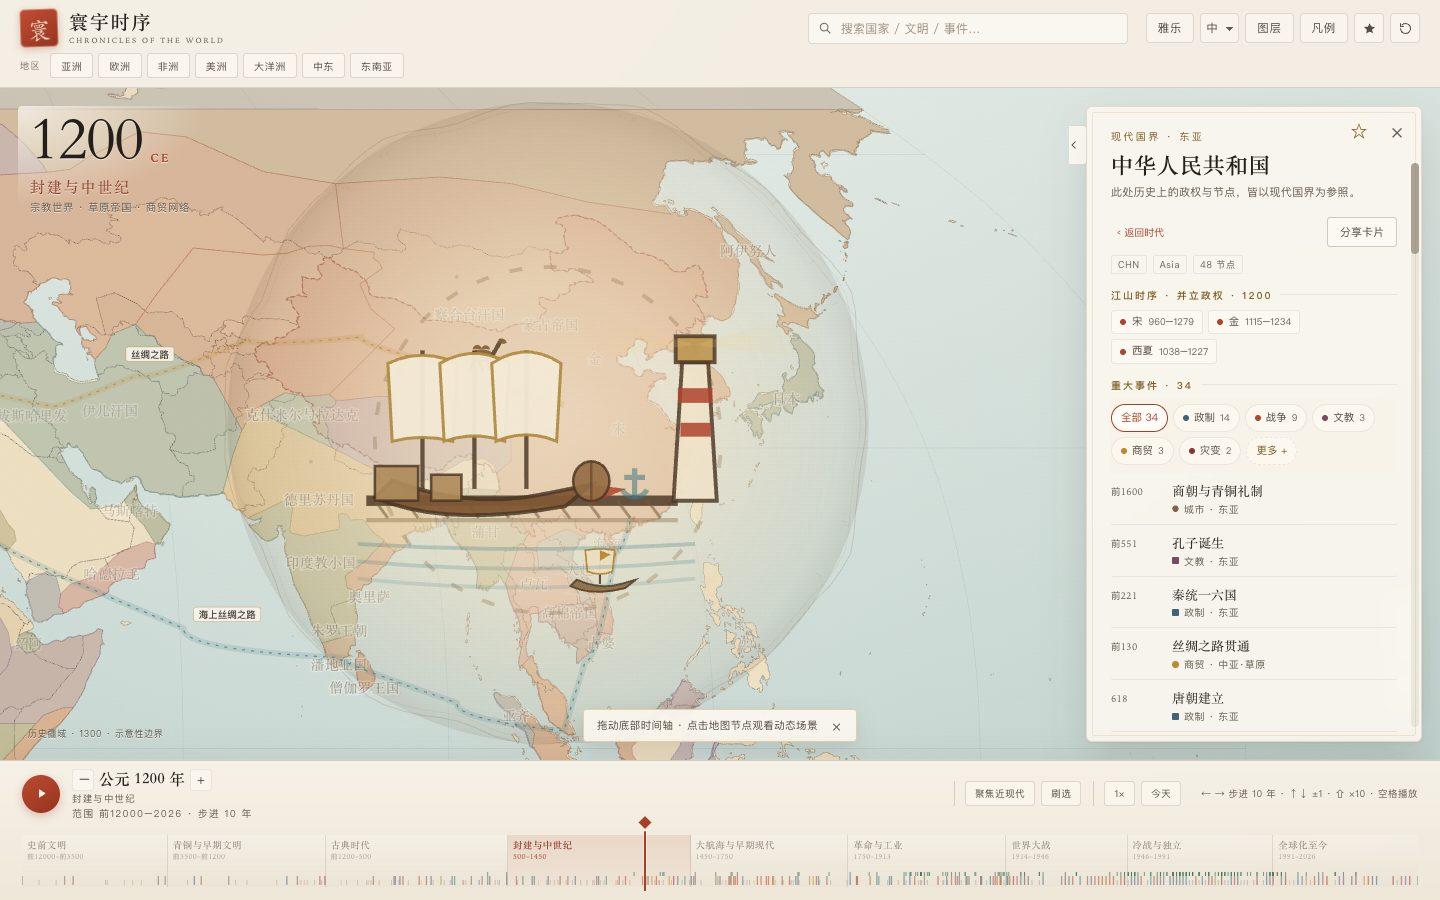
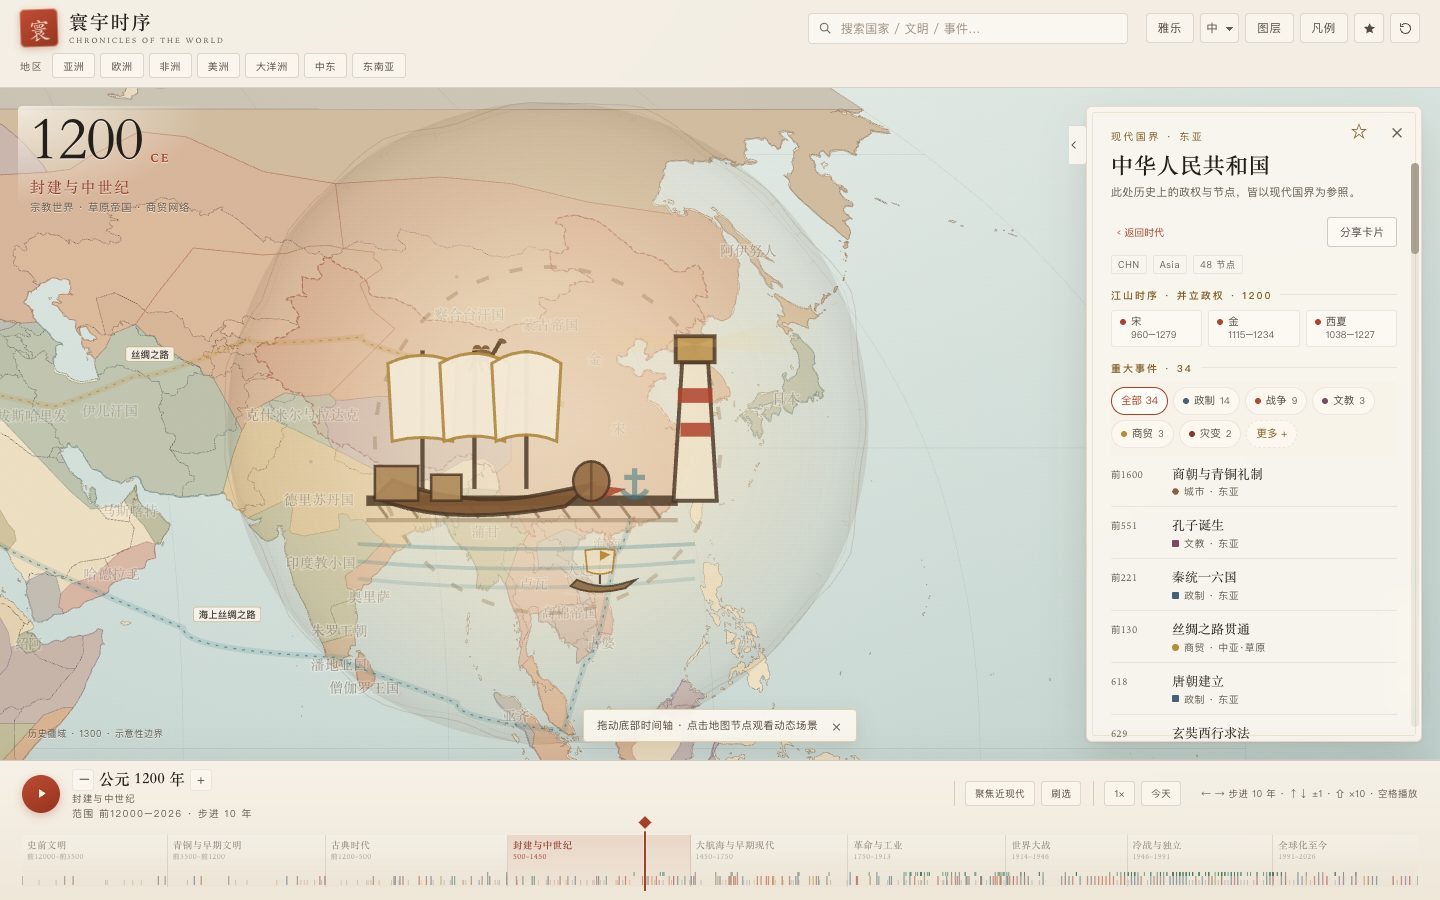
fix(ux): close the last P3 review items (D17-D20, U22)
D17 - the institutional badge is now a dot
  "Memorial Hall ... [机构]" repeated what the label already said; sources
  keep institutional-first ordering and gain a small gold dot instead.

D18 - the ash column and the surf read as masses, not strings of beads
  The eruption plume is 24 overlapping puffs, each in three alphas (halo,
  body, core), dense at the crater and thinning with height; the wave foam is
  34 fine dots instead of 16 large ones.

D19 - rival regimes align
  Three or more regimes in the China lens now sit on an equal-width grid,
  name on the first line and years on the second, so a 93px column no longer
  breaks "960-1279" across three rows.

D20 - the region label is legible
  9px at 85% opacity -> 10px in full --muted.

U22 - the disaster family covers all twelve events
  Famine (Irish, Bengal) and wave (Indian Ocean tsunami, Fukushima) join
  eruption, quake and plague. Tier B 53 -> 57; disaster diversity 0.126, all
  57 variants 0.127.

Smoke 60/60 (Tier B count updated), a11y 21/21, perf budget green, contact
sheet refreshed.

diff --git a/js/variant-scenes.js b/js/variant-scenes.js
@@ -1899,15 +1899,21 @@
     ctx.closePath();
     ctx.fillStyle = "rgba(38,30,26,0.95)"; ctx.fill();
     glow(ctx, 6, -55, 16, "rgb(240,140,70)", 0.35 + Math.sin(t * 2.4) * 0.06);
-    // ash column rising from the crater, in front of the sky
-    for (let i = 0; i < 26; i++) {
-      const q = (i / 26 + t * 0.02) % 1;
-      const bx = 6 + q * 24 + Math.sin(t * 0.8 + i) * 2.6;
-      const by = -57 - q * 20;
-      ctx.beginPath();
-      ctx.arc(bx, by, 2.4 + q * 7.0, 0, TAU);
-      ctx.fillStyle = "rgba(88,82,78," + (0.26 * (1 - q * 0.45)) + ")";
-      ctx.fill();
+    // Ash column: overlapping puffs drawn as three concentric alphas each, so
+    // it reads as one mass instead of a string of beads.
+    for (let i = 0; i < 24; i++) {
+      const q = (i / 24 + t * 0.02) % 1;
+      const bx = 6 + q * 22 + Math.sin(t * 0.7 + i * 0.7) * 1.8;
+      const by = -56 - q * 14;
+      const r = 2.2 + q * 5.4;
+      const fade = 1 - q * 0.3;
+      const layers = [[1.9, 0.10], [1.4, 0.18], [1, 0.30]];
+      for (const [k, a] of layers) {
+        ctx.beginPath();
+        ctx.arc(bx, by, r * k, 0, TAU);
+        ctx.fillStyle = "rgba(84,78,74," + (a * fade) + ")";
+        ctx.fill();
+      }
     }
     // rock streaks converging on the crater, following the cone's slope
     for (let i = 0; i < 7; i++) {
@@ -2074,9 +2080,131 @@
     }
   }
 
+  function disasterFamineStage(ctx, top, t, v) {
+    const pal = PAL[v.palette] || PAL.noon;
+    sky(ctx, top, pal, -32);
+    cloud(ctx, -12, -78, 22, "rgba(246,240,224,0.20)", 0.35);
+    // parched fields to the horizon
+    const gr = ctx.createLinearGradient(0, -30, 0, 0);
+    gr.addColorStop(0, "rgba(196,172,130,0.92)");
+    gr.addColorStop(1, "rgba(164,136,98,0.98)");
+    ctx.fillStyle = gr; ctx.fillRect(-50, -30, 100, 30);
+    // bare trees on the skyline
+    for (const [bx, s2] of [[-40, 0.9], [-26, 0.7], [30, 0.8], [42, 0.6]]) {
+      ctx.strokeStyle = "rgba(96,78,56,0.6)"; ctx.lineWidth = 0.4 * s2;
+      ctx.beginPath(); ctx.moveTo(bx, -30); ctx.lineTo(bx, -30 - 8 * s2); ctx.stroke();
+      ctx.lineWidth = 0.28 * s2;
+      ctx.beginPath(); ctx.moveTo(bx, -33 * 1 - 3 * s2); ctx.lineTo(bx - 3 * s2, -36 - 2 * s2); ctx.stroke();
+      ctx.beginPath(); ctx.moveTo(bx, -35 - 2 * s2); ctx.lineTo(bx + 3 * s2, -37 - 2 * s2); ctx.stroke();
+    }
+    // cracked earth
+    ctx.strokeStyle = "rgba(108,86,60,0.45)"; ctx.lineWidth = 0.3;
+    for (let i = 0; i < 9; i++) {
+      const x = -46 + i * 10.5;
+      ctx.beginPath();
+      ctx.moveTo(x, 0); ctx.lineTo(x + 3, -6); ctx.lineTo(x - 1, -12); ctx.lineTo(x + 2.4, -18);
+      ctx.stroke();
+    }
+    for (let i = 0; i < 5; i++) {
+      const y = -4 - i * 4.4;
+      ctx.beginPath(); ctx.moveTo(-50, y); ctx.lineTo(-18, y - 1.4); ctx.lineTo(14, y + 0.8); ctx.lineTo(50, y - 0.6); ctx.stroke();
+    }
+    // dry stalks in the near field
+    for (let i = 0; i < 16; i++) {
+      const x = -48 + i * 6.4, y = -2 - (i % 3) * 1.4;
+      ctx.strokeStyle = "rgba(150,124,82,0.8)"; ctx.lineWidth = 0.22;
+      ctx.beginPath(); ctx.moveTo(x, y); ctx.lineTo(x + Math.sin(i) * 1.2, y - 3.2); ctx.stroke();
+    }
+    // empty granary, right
+    ctx.fillStyle = "rgba(178,154,120,0.97)";
+    ctx.fillRect(26, -26, 16, 10);
+    ctx.beginPath(); ctx.moveTo(24, -26); ctx.lineTo(34, -33); ctx.lineTo(44, -26); ctx.closePath();
+    ctx.fillStyle = "rgba(150,108,72,0.95)"; ctx.fill();
+    ctx.fillStyle = "rgba(70,54,38,0.7)";
+    ctx.fillRect(32, -21, 4, 5);
+    // a thin queue walking left, and a hand cart
+    const queue = [[-14, -3.6, 0.5], [-8, -4.4, 0.47], [-2.4, -3.2, 0.52], [3, -4.8, 0.45], [8.4, -3.8, 0.5]];
+    queue.forEach(([x, y, sc], i) => {
+      p(ctx, x, y, sc, "rgba(64,52,40,0.95)", { phase: t * 0.35 + i * 0.7, noShadow: true });
+    });
+    ctx.fillStyle = "rgba(110,84,56,0.95)";
+    ctx.fillRect(-26, -6.6, 10, 2.6);
+    ctx.strokeStyle = "rgba(70,52,34,0.9)"; ctx.lineWidth = 0.5;
+    ctx.beginPath(); ctx.arc(-24, -3.4, 2.2, 0, TAU); ctx.stroke();
+    ctx.beginPath(); ctx.arc(-18, -3.4, 2.2, 0, TAU); ctx.stroke();
+    // crows
+    for (let i = 0; i < 4; i++) {
+      const cx = -20 + i * 13 + Math.sin(t * 0.6 + i) * 2.4;
+      const cy = -44 - (i % 2) * 5 + Math.cos(t * 0.8 + i) * 1;
+      ctx.strokeStyle = "rgba(52,46,40,0.8)"; ctx.lineWidth = 0.35;
+      ctx.beginPath();
+      ctx.moveTo(cx - 1.6, cy); ctx.quadraticCurveTo(cx - 0.5, cy - 1.1, cx, cy);
+      ctx.quadraticCurveTo(cx + 0.5, cy - 1.1, cx + 1.6, cy);
+      ctx.stroke();
+    }
+  }
+
+  function disasterWaveStage(ctx, top, t, v) {
+    const pal = PAL[v.palette] || PAL.storm;
+    sky(ctx, top, pal, 30);
+    // sea
+    const sea = ctx.createLinearGradient(0, -30, 0, 0);
+    sea.addColorStop(0, "rgba(88,116,120,0.95)");
+    sea.addColorStop(1, "rgba(50,78,86,0.99)");
+    ctx.fillStyle = sea; ctx.fillRect(-50, -30, 100, 30);
+    // the wave: a curling mass rising on the right and breaking left
+    const sway = Math.sin(t * 0.9) * 0.8;
+    ctx.beginPath();
+    ctx.moveTo(52, -8);
+    ctx.quadraticCurveTo(30, -14, 20, -30);
+    ctx.quadraticCurveTo(12, -46 + sway, -2, -44 + sway);
+    ctx.quadraticCurveTo(2, -34, -8, -26);
+    ctx.quadraticCurveTo(-2, -12, 12, -8);
+    ctx.closePath();
+    ctx.fillStyle = "rgba(66,102,110,0.97)"; ctx.fill();
+    ctx.strokeStyle = "rgba(206,226,222,0.55)"; ctx.lineWidth = 0.5; ctx.stroke();
+    // foam along the crest: many small overlapping dots, not a string of beads
+    for (let i = 0; i < 34; i++) {
+      const q = i / 34;
+      const x = -4 + q * 26 + Math.sin(t * 2 + i * 0.8) * 0.5;
+      const y = -45 + q * 15 + q * q * 6 + sway;
+      ctx.beginPath(); ctx.arc(x, y, 0.34 + (i % 4) * 0.12, 0, TAU);
+      ctx.fillStyle = "rgba(240,248,242," + (0.55 - q * 0.25) + ")"; ctx.fill();
+    }
+    // spray
+    for (let i = 0; i < 26; i++) {
+      const q = (t * 0.3 + i * 0.07) % 1;
+      ctx.beginPath();
+      ctx.arc(-10 + i * 2.4 + q * 6, -34 - q * 8 + Math.sin(i) * 2, 0.5, 0, TAU);
+      ctx.fillStyle = "rgba(236,244,240," + (0.4 * (1 - q)) + ")"; ctx.fill();
+    }
+    // low coast, left: bank, a house, a bent palm
+    ctx.fillStyle = "rgba(132,116,92,0.97)";
+    ctx.beginPath();
+    ctx.moveTo(-50, -6); ctx.lineTo(-34, -12); ctx.lineTo(-24, -8); ctx.lineTo(-20, 0); ctx.lineTo(-50, 0);
+    ctx.closePath(); ctx.fill();
+    ctx.fillStyle = "rgba(196,176,146,0.96)";
+    ctx.fillRect(-46, -20, 12, 9);
+    ctx.beginPath(); ctx.moveTo(-48, -20); ctx.lineTo(-40, -25); ctx.lineTo(-32, -20); ctx.closePath();
+    ctx.fillStyle = "rgba(150,108,72,0.95)"; ctx.fill();
+    ctx.strokeStyle = "rgba(88,70,48,0.85)"; ctx.lineWidth = 0.45;
+    ctx.beginPath(); ctx.moveTo(-26, -12); ctx.quadraticCurveTo(-30, -22, -36, -26); ctx.stroke();
+    for (let i = 0; i < 4; i++) {
+      ctx.beginPath();
+      ctx.moveTo(-36, -26);
+      ctx.quadraticCurveTo(-40 - i * 2, -28 - i * 1.4, -43 - i * 1.6, -25 - i * 1.8);
+      ctx.stroke();
+    }
+    // fleeing figures on the bank
+    p(ctx, -22, -7.2, 0.46, "rgba(56,48,40,0.97)", { phase: t * 0.8, noShadow: true });
+    p(ctx, -16, -5.6, 0.5, "rgba(66,56,46,0.97)", { phase: t * 0.8 + 1.2, noShadow: true });
+  }
+
   function disasterStage(ctx, top, t, v) {
     if (v.kind === "quake") return disasterQuakeStage(ctx, top, t, v);
     if (v.kind === "plague") return disasterPlagueStage(ctx, top, t, v);
+    if (v.kind === "famine") return disasterFamineStage(ctx, top, t, v);
+    if (v.kind === "wave") return disasterWaveStage(ctx, top, t, v);
     return disasterEruptionStage(ctx, top, t, v);
   }
 
@@ -2110,6 +2238,35 @@
         ctx.quadraticCurveTo(cx + 0.6, cy - 1.4, cx + 2, cy);
         ctx.stroke();
       }
+    } else if (v.kind === "famine") {
+      // parched field lines, a granary and a thin queue
+      ctx.strokeStyle = "rgba(118,94,64,0.4)"; ctx.lineWidth = 0.3;
+      for (let i = 0; i < 5; i++) {
+        ctx.beginPath(); ctx.moveTo(-30, -6 - i * 3.4); ctx.lineTo(30, -7.4 - i * 3.4); ctx.stroke();
+      }
+      ctx.fillStyle = "rgba(178,154,120,0.95)";
+      ctx.fillRect(12, -22, 12, 8);
+      ctx.beginPath(); ctx.moveTo(10, -22); ctx.lineTo(18, -28); ctx.lineTo(26, -22); ctx.closePath();
+      ctx.fillStyle = "rgba(150,108,72,0.9)"; ctx.fill();
+      for (let i = 0; i < 4; i++) {
+        ctx.beginPath(); ctx.arc(-18 + i * 6, -6 - (i % 2), 1.3, 0, TAU);
+        ctx.fillStyle = "rgba(64,52,40,0.85)"; ctx.fill();
+      }
+    } else if (v.kind === "wave") {
+      const sway = Math.sin(t * 0.9) * 0.6;
+      ctx.beginPath();
+      ctx.moveTo(30, -4);
+      ctx.quadraticCurveTo(14, -8, 10, -20);
+      ctx.quadraticCurveTo(6, -32 + sway, -6, -30 + sway);
+      ctx.quadraticCurveTo(0, -22, -6, -16);
+      ctx.quadraticCurveTo(2, -6, 12, -4);
+      ctx.closePath();
+      ctx.fillStyle = "rgba(70,106,114,0.95)"; ctx.fill();
+      ctx.strokeStyle = "rgba(222,238,232,0.5)"; ctx.lineWidth = 0.4; ctx.stroke();
+      ctx.fillStyle = "rgba(196,176,146,0.95)";
+      ctx.fillRect(-30, -14, 10, 7);
+      ctx.beginPath(); ctx.moveTo(-32, -14); ctx.lineTo(-25, -19); ctx.lineTo(-18, -14); ctx.closePath();
+      ctx.fillStyle = "rgba(150,108,72,0.9)"; ctx.fill();
     } else {
       // cone, plume, lava
       for (let i = 0; i < 10; i++) {
@@ -2152,6 +2309,10 @@
     "cook-at-tahiti": { family: "caravel", palette: "noon", skyline: "palms", weather: "clear", crowd: "sailors", frame: "palms", flag: "rgba(74,104,138,0.95)", landmark: "canoe" },
     "bering-reaches-alaska": { family: "caravel", palette: "snow", skyline: "cliffs", weather: "snow", crowd: "sailors", frame: "hull", flag: "rgba(84,104,122,0.95)", landmark: "ice" },
     "thera-eruption": { family: "disaster", kind: "eruption", palette: "storm" },
+    "irish-famine": { family: "disaster", kind: "famine", palette: "storm" },
+    "bengal-famine": { family: "disaster", kind: "famine", palette: "noon" },
+    "indian-ocean-tsunami": { family: "disaster", kind: "wave", palette: "storm" },
+    "fukushima-disaster": { family: "disaster", kind: "wave", palette: "dusk" },
     "tonga-eruption": { family: "disaster", kind: "eruption", palette: "dawn" },
     "lisbon-earthquake": { family: "disaster", kind: "quake", palette: "noon" },
     "great-kanto-earthquake": { family: "disaster", kind: "quake", palette: "noon" },

diff --git a/js/app.js b/js/app.js
@@ -471,8 +471,10 @@
      stronger evidence than an encyclopedia entry. */
   const SOURCE_TIER_RANK = { institutional: 0, secondary: 1, encyclopedic: 2 };
   const sourceRank = (s) => (s && s.tier && SOURCE_TIER_RANK[s.tier] != null ? SOURCE_TIER_RANK[s.tier] : 2);
-  const sourceTierBadge = (s) => (s && s.tier === "institutional"
-    ? `<span class="src-tier">${L("机构", "INSTITUTION", "INSTITUCIÓN", "INSTITUTION", "مؤسسة")}</span>` : "");
+  /* A dot, not a word: the label already names the museum or archive, and the
+     badge repeated it. The dot only signals "institutional, ranked first". */
+  const sourceTierMark = (s) => (s && s.tier === "institutional"
+    ? `<i class="src-mark" aria-hidden="true" title="${L("机构来源", "Institutional source", "Fuente institucional", "Source institutionnelle", "مصدر مؤسسي")}"></i>` : "");
 
   function modernEntityName(e) {
     if (!e) return "";
@@ -1283,7 +1285,7 @@
 
     if (sourceLinks.length) {
       html += `<section class="ev-detail-section"><h4>${L("来源", "SOURCES", "FUENTES", "SOURCES", "المصادر")}</h4>`;
-      sourceLinks.forEach((s) => { html += `<p><a href="${s.url}" target="_blank" rel="noopener">${s.label || s.url}</a>${sourceTierBadge(s)}</p>`; });
+      sourceLinks.forEach((s) => { html += `<p>${sourceTierMark(s)}<a href="${s.url}" target="_blank" rel="noopener">${s.label || s.url}</a></p>`; });
       html += `</section>`;
     }
 
@@ -1618,7 +1620,7 @@
     const hereTitle = regimes.length
       ? L("江山时序 · 并立政权", "CHRONICLE · RIVAL REGIMES", "CRÓNICA · REGÍMENES RIVALES", "CHRONIQUE · RÉGIMES RIVAUX", "السجل · أنظمة متنافسة")
       : L("此处此时", "HERE, NOW", "AQUÍ, AHORA", "ICI, MAINTENANT", "هنا الآن");
-    html += `<section class="p-section"><h3>${hereTitle} · ${fmtYear(state.year, state.lang, true)}</h3><div class="polity-list">`;
+    html += `<section class="p-section"><h3>${hereTitle} · ${fmtYear(state.year, state.lang, true)}</h3><div class="polity-list${regimes.length >= 3 ? " is-grid" : ""}">`;
     if (regimes.length) {
       regimes.forEach((e) => {
         html += `<span class="polity-chip"><i style="background:${e.type === "culture" ? "#8a7a9a" : "#b0432c"}"></i>${e.name}<small>${fmtRange(e.from, e.to)}</small></span>`;
@@ -2759,7 +2761,7 @@
       if ((d.sources || []).length) {
         dh += `<section class="ev-detail-section"><h4>${L("来源", "SOURCES", "FUENTES", "SOURCES", "المصادر")}</h4>`;
         d.sources.filter((x) => x.url).slice().sort((a, b) => sourceRank(a) - sourceRank(b)).slice(0, 4)
-          .forEach((x) => { dh += `<p><a href="${x.url}" target="_blank" rel="noopener">${x.label || x.url}</a>${sourceTierBadge(x)}</p>`; });
+          .forEach((x) => { dh += `<p>${sourceTierMark(x)}<a href="${x.url}" target="_blank" rel="noopener">${x.label || x.url}</a></p>`; });
         dh += `</section>`;
       }
       el["ev-detail"].innerHTML = dh;

diff --git a/css/style.css b/css/style.css
@@ -2524,6 +2524,27 @@ body.sheet-half #map-empty, body.sheet-full #map-empty { display: none; }
 #panel-title:focus,
 #panel-title:focus-visible { outline: 1px solid rgba(168, 62, 40, 0.55); outline-offset: 5px; border-radius: 2px; }
 
+/* 并立政权：3 个以上时用等宽网格，避免 2+1 的参差换行 */
+.polity-list.is-grid {
+  display: grid;
+  grid-template-columns: repeat(auto-fit, minmax(84px, 1fr));
+  gap: 6px;
+}
+/* Three or more regimes: name on the first line, years on a second line,
+   so a 93px column does not break "960–1279" across three rows. */
+.polity-list.is-grid .polity-chip {
+  min-width: 0;
+  display: flex;
+  flex-wrap: wrap;
+  align-items: center;
+  gap: 1px 5px;
+  white-space: nowrap;
+}
+.polity-list.is-grid .polity-chip small {
+  flex-basis: 100%;
+  padding-inline-start: 11px;
+}
+
 /* 时间轴工具栏分组：视图 / 播放，RTL 下用逻辑边框 */
 .tl-group { display: flex; align-items: center; gap: 6px; flex: none; }
 .tl-group .tl-small { white-space: nowrap; }
@@ -2628,11 +2649,10 @@ body.sheet-half #map-empty, body.sheet-full #map-empty { display: none; }
   flex: none;
   align-self: center;
   padding-inline-end: 4px;
-  font-size: 9px;
-  letter-spacing: 0.18em;
+  font-size: 10px;
+  letter-spacing: 0.16em;
   text-transform: uppercase;
   color: var(--muted);
-  opacity: 0.85;
 }
 
 /* 手机上面板收起时，入口带上"此刻 N 条" */
@@ -2662,16 +2682,14 @@ body.sheet-half #map-empty, body.sheet-full #map-empty { display: none; }
   #now-btn, #tl-brush-btn { display: none; }
 }
 
-/* 来源层级标记 / source tier badge */
-.src-tier {
+/* 机构来源标记 / institutional source mark */
+.src-mark {
   display: inline-block;
-  margin-inline-start: 6px;
-  padding: 0 4px;
-  border: 1px solid rgba(125, 90, 32, 0.45);
-  border-radius: 2px;
-  font-size: 8.5px;
-  letter-spacing: 0.08em;
-  color: var(--gold);
+  width: 6px;
+  height: 6px;
+  margin-inline-end: 6px;
+  border-radius: 50%;
+  background: var(--gold);
   vertical-align: 1px;
 }
 

diff --git a/docs/p3-2-scenes.md b/docs/p3-2-scenes.md
@@ -133,3 +133,10 @@ Gate 3 若要开工，建议先在 siege 家族内部拆出 `urban-war`（近代
 - 接触表 `docs/p3-shots/p3-2-tierb-contact.jpg` 已更新（8 个新场景在第 2–3 行）。
 - 地图徽章按 kind 分叉（火山锥/斜塔/街区），不是同一个通用徽章。
 - **未做完**：famine（爱尔兰、孟加拉）与 wave（印度洋海啸、福岛、汤加？汤加已用 eruption）仍是通用场景；未做盲测。
+
+### 9.1 补完灾害覆盖（同日）
+
+- 新增 **famine**（爱尔兰、孟加拉饥荒）与 **wave**（印度洋海啸、福岛）两种构图，12 个灾害事件现在全部有专属场景（8 → **12/12**）。
+- Tier B **53 → 57**；disaster 家族内部差异 0.126，全部 57 个 **0.127**。
+- 灰柱改为多层叠加的软烟（不再是一串等距圆点），海浪的白沫改成细密小点。
+- 接触表已更新。
